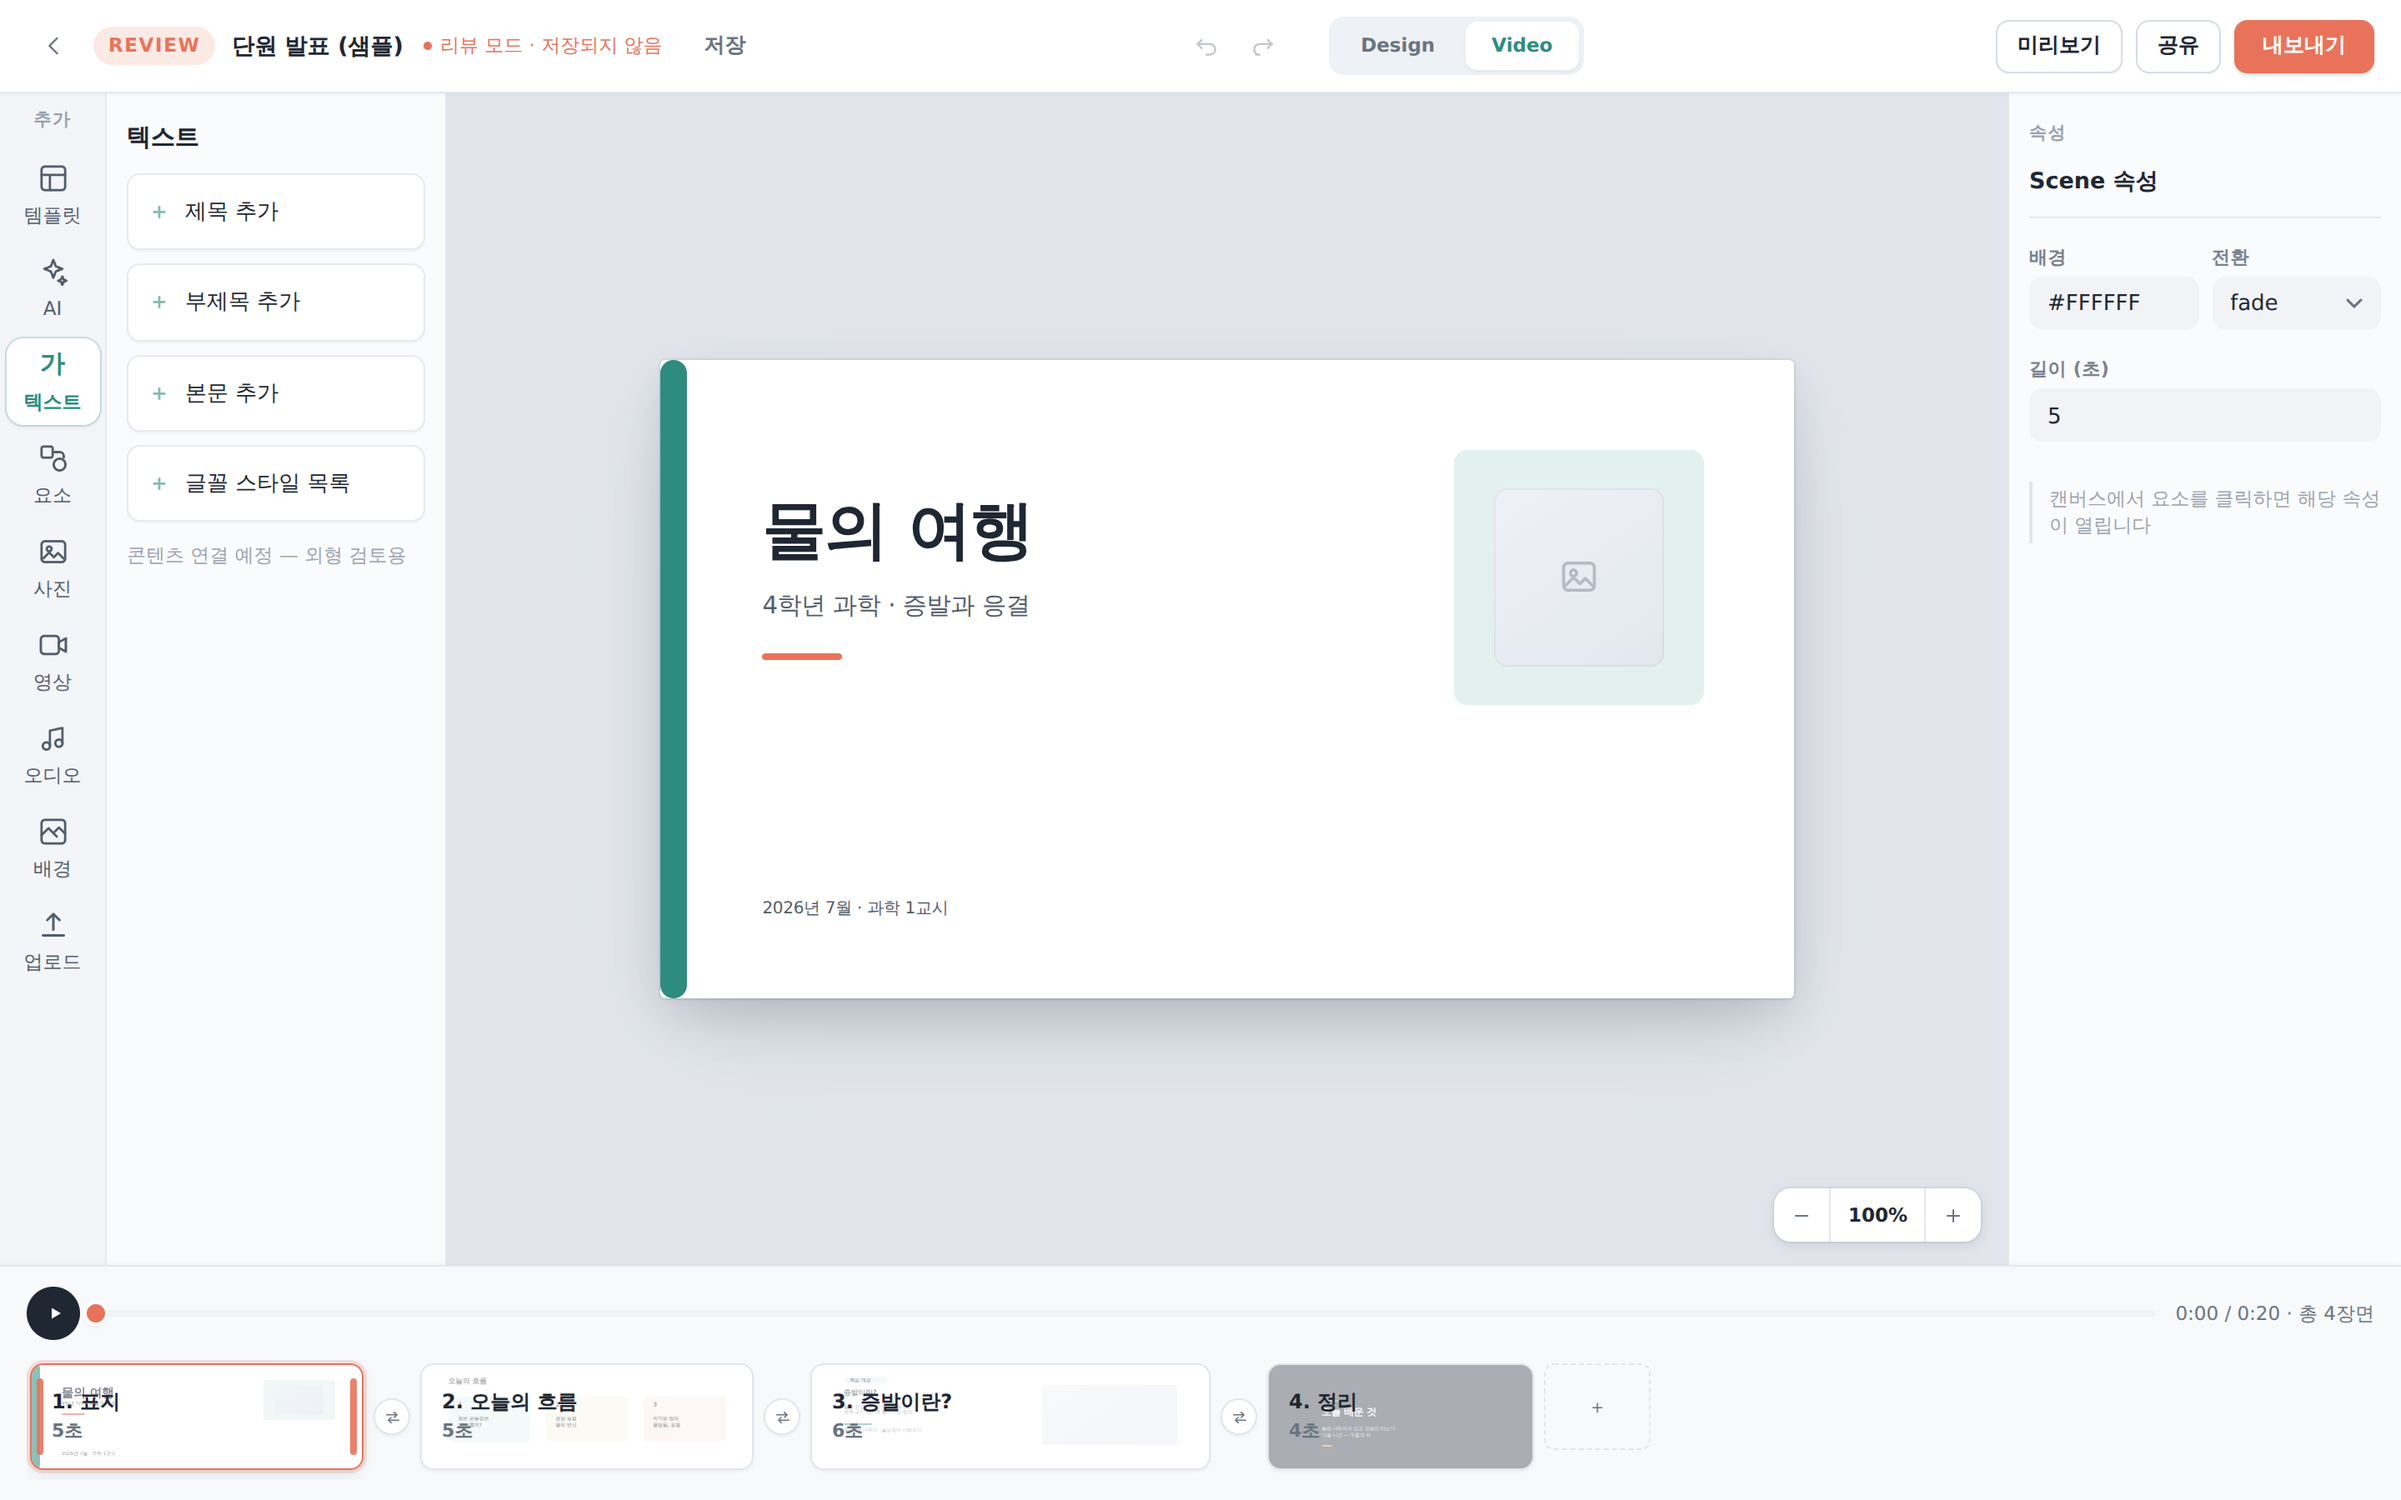
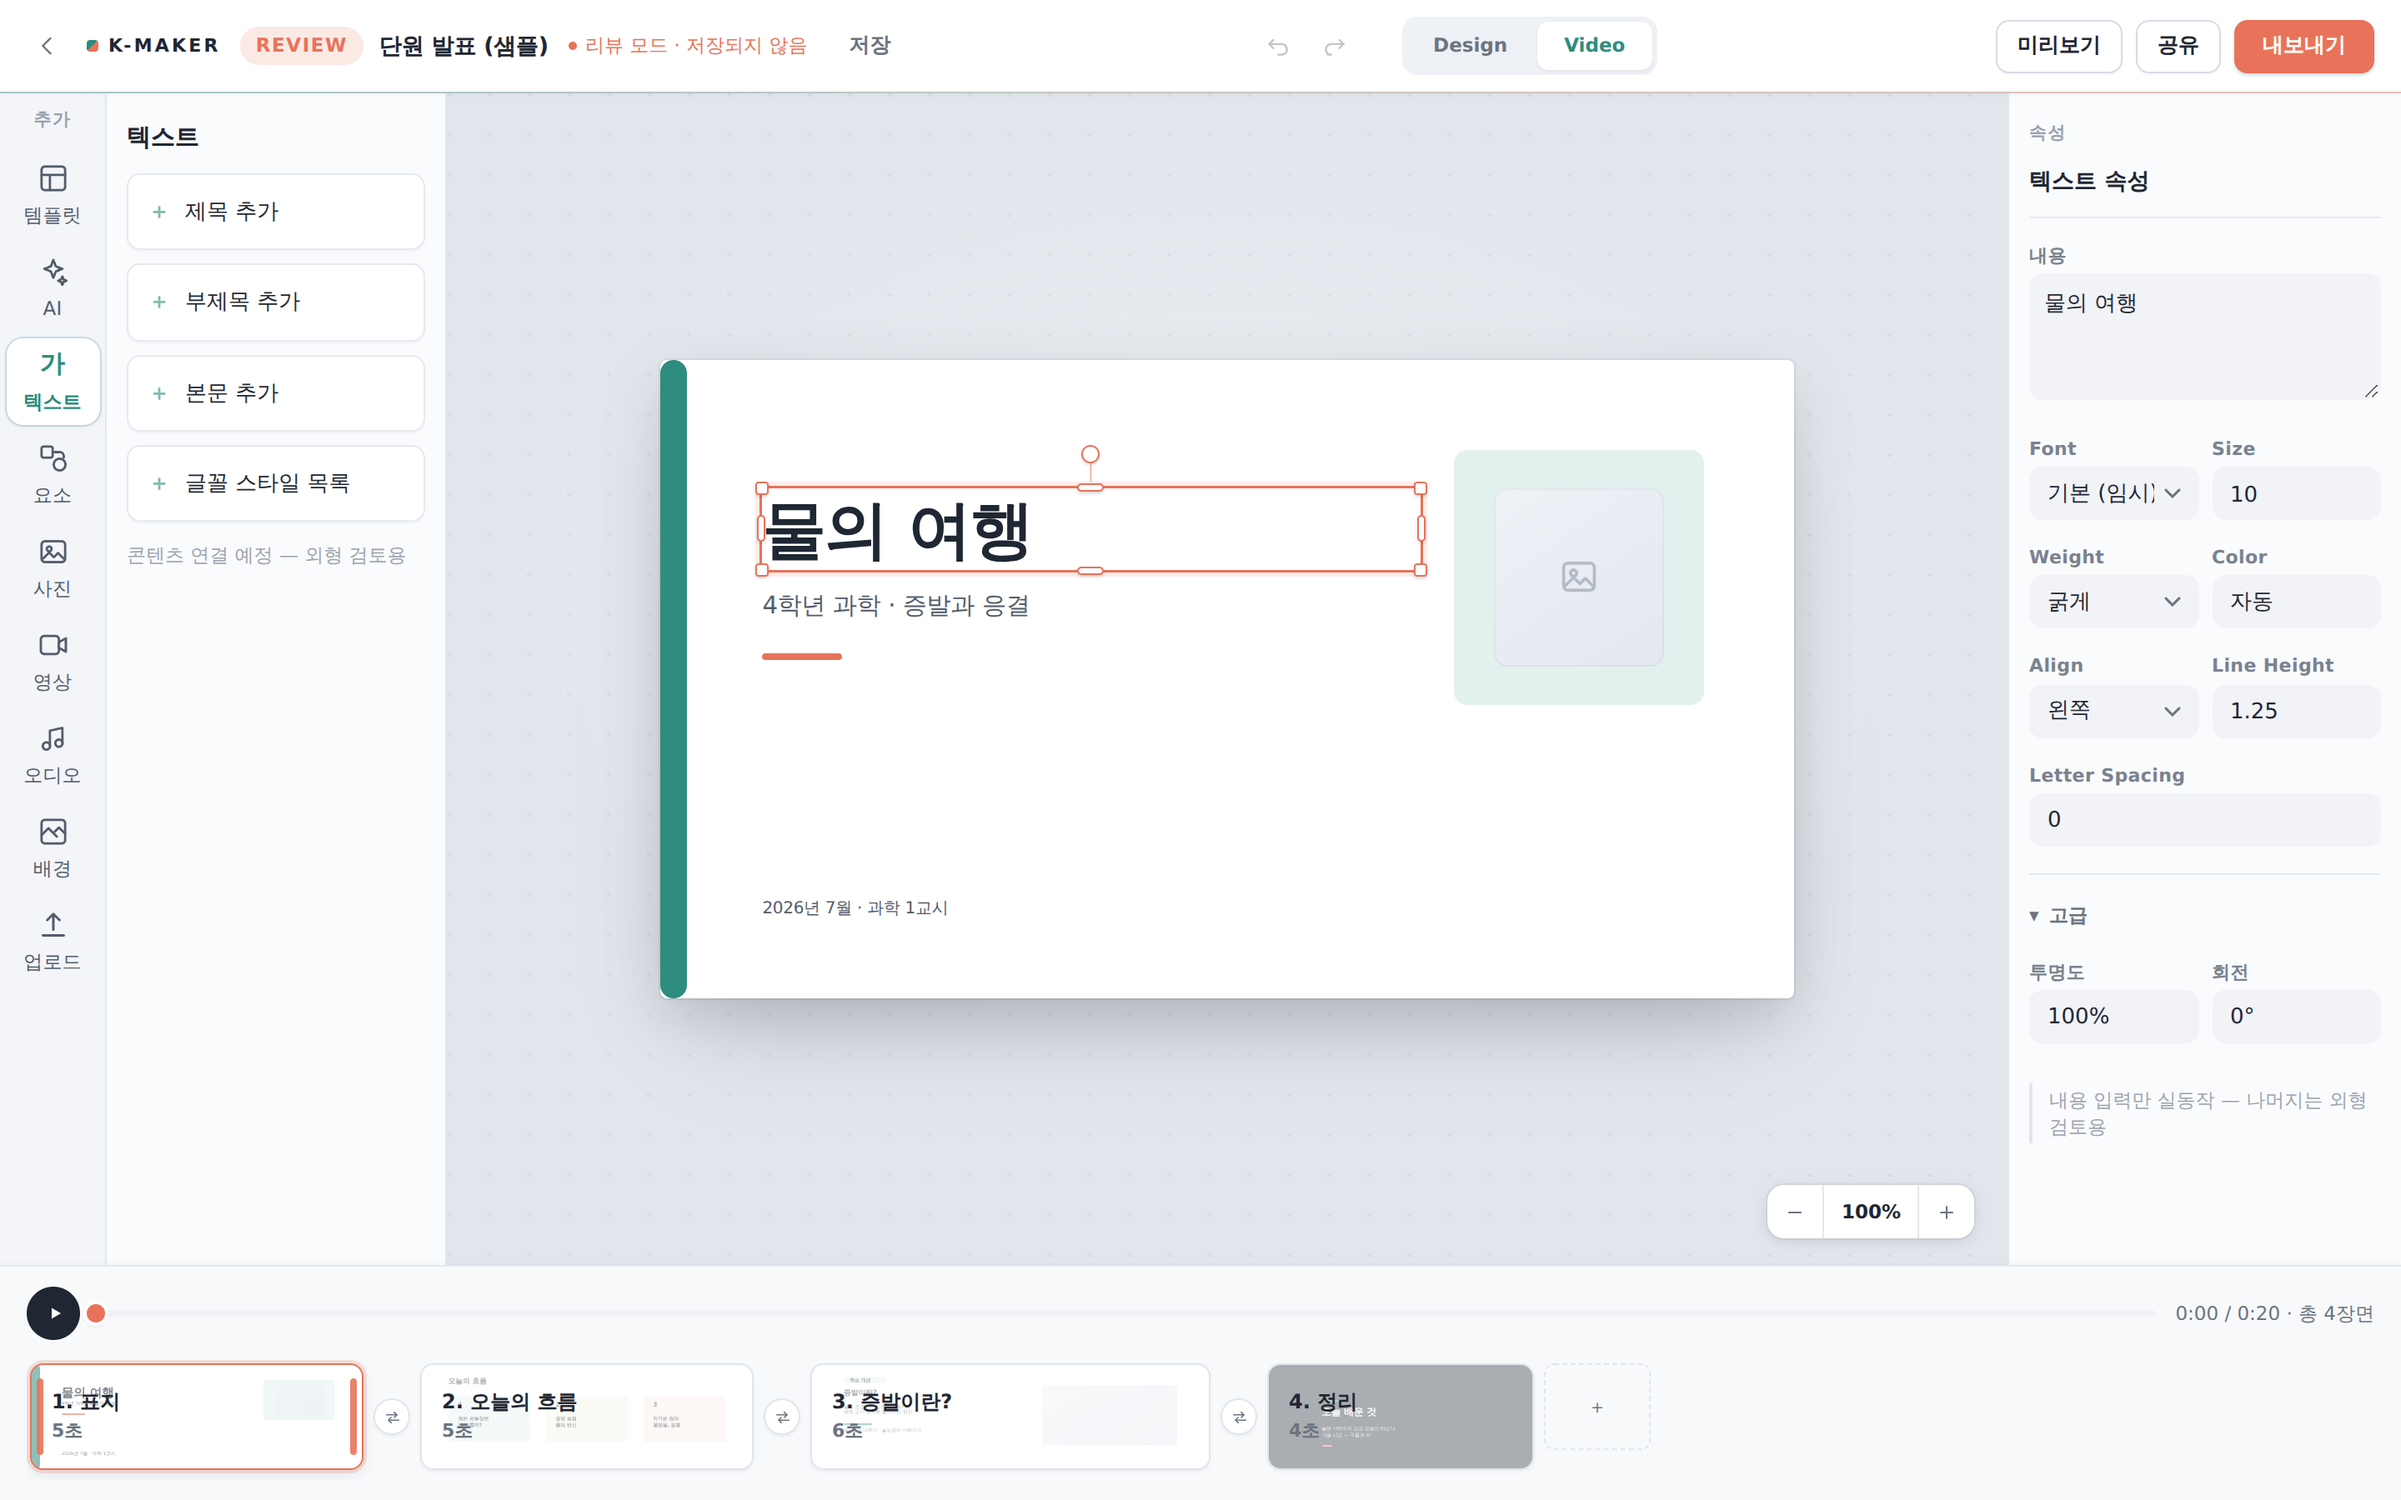
Product Experience Round 06 — Brand Experience (기능·레이아웃 무변). ① Identity: 리뷰(쇼케이스) 한정 K-MAKER 워드마크(캡션 11px·트래킹 1.6·teal/coral 듀오 도트 — 로고 확대 아님) + 툴바 하단 1px teal→coral 브랜드 헤어라인(opacity .34), 파일명 트래킹 -.01em ② Showcase: 리뷰 크롬이 곧 브랜드 — 배지·워드마크·헤어라인 3요소 조합 ③ Canvas Experience: 창작 공간화 — 도트 그리드(24px·5% 잉크)+

diff --git a/maker-playground/index.html b/maker-playground/index.html
@@ -6,9 +6,9 @@
 <meta name="robots" content="noindex">
 <title>K-MAKER Design Playground</title>
 <link rel="stylesheet" href="https://cdn.jsdelivr.net/gh/orioncactus/pretendard@v1.3.9/dist/web/static/pretendard.min.css">
-<link rel="stylesheet" href="tokens.css?v=20260718d">
-<link rel="stylesheet" href="playground.css?v=20260718d">
-<link rel="stylesheet" href="components/button.css?v=20260718d">
+<link rel="stylesheet" href="tokens.css?v=20260718e">
+<link rel="stylesheet" href="playground.css?v=20260718e">
+<link rel="stylesheet" href="components/button.css?v=20260718e">
 </head>
 <body>
 <div class="pg-shell">
@@ -22,25 +22,25 @@
     <div class="pg-body" id="pgBody"></div>
   </main>
 </div>
-<script src="data/sample.js?v=20260718d"></script>
-<script src="data/templates.js?v=20260718d"></script>
-<script src="data/assets.js?v=20260718d"></script>
-<script src="data/projects.js?v=20260718d"></script>
-<script src="data/animations.js?v=20260718d"></script>
-<script src="components.js?v=20260718d"></script>
-<script src="screens/misc.js?v=20260718d"></script>
-<script src="screens/foundations.js?v=20260718d"></script>
-<script src="screens/components.js?v=20260718d"></script>
-<script src="screens/home.js?v=20260718d"></script>
-<script src="screens/create.js?v=20260718d"></script>
-<script src="screens/browser.js?v=20260718d"></script>
-<script src="screens/editor.js?v=20260718d"></script>
-<script src="screens/assets.js?v=20260718d"></script>
-<script src="screens/ai.js?v=20260718d"></script>
-<script src="screens/projects.js?v=20260718d"></script>
-<script src="screens/workspace.js?v=20260718d"></script>
-<script src="screens/builder.js?v=20260718d"></script>
-<script src="screens/animation.js?v=20260718d"></script>
-<script src="app.js?v=20260718d"></script>
+<script src="data/sample.js?v=20260718e"></script>
+<script src="data/templates.js?v=20260718e"></script>
+<script src="data/assets.js?v=20260718e"></script>
+<script src="data/projects.js?v=20260718e"></script>
+<script src="data/animations.js?v=20260718e"></script>
+<script src="components.js?v=20260718e"></script>
+<script src="screens/misc.js?v=20260718e"></script>
+<script src="screens/foundations.js?v=20260718e"></script>
+<script src="screens/components.js?v=20260718e"></script>
+<script src="screens/home.js?v=20260718e"></script>
+<script src="screens/create.js?v=20260718e"></script>
+<script src="screens/browser.js?v=20260718e"></script>
+<script src="screens/editor.js?v=20260718e"></script>
+<script src="screens/assets.js?v=20260718e"></script>
+<script src="screens/ai.js?v=20260718e"></script>
+<script src="screens/projects.js?v=20260718e"></script>
+<script src="screens/workspace.js?v=20260718e"></script>
+<script src="screens/builder.js?v=20260718e"></script>
+<script src="screens/animation.js?v=20260718e"></script>
+<script src="app.js?v=20260718e"></script>
 </body>
 </html>

diff --git a/maker-playground/playground.css b/maker-playground/playground.css
@@ -1538,3 +1538,43 @@ body.pg-chromeless .pg-shell { grid-template-columns: 1fr; }
 .ed-zoom { transition: box-shadow var(--ed-tr) var(--mk-mo-ease); }
 .ed-props .mk-input, .ed-detail .ph-item, .ed-adv summary { transition-duration: var(--ed-tr); }
 
+
+/* ============================================================
+   Product Experience — Round 06  (Brand Experience)
+   기능·레이아웃 무변 — 타이포·모션·서피스·하이라이트로 브랜드.
+   ============================================================ */
+/* ---- 4. Interaction — 빠름이 아니라 부드러움 (180ms·소프트 커브 전면) ---- */
+.ed { --ed-tr: 180ms; --mk-mo-ease: cubic-bezier(.22, .68, .3, 1); --mk-mo-fast: 150ms; }
+
+/* ---- 3. Canvas Experience — 창작 공간 (라이팅 + 도트 그리드) ---- */
+.ed-canvaswrap { background:
+    radial-gradient(circle at 1px 1px, rgba(31, 39, 51, .05) 1px, transparent 1.6px) 0 0 / 24px 24px,
+    radial-gradient(ellipse 64% 54% at 50% 42%, #ECEFF3 0%, var(--ed-bg-workspace) 74%); }
+.ed-canvas { border-radius: 4px;
+  box-shadow: 0 0 0 1px rgba(20, 28, 40, .05),
+              0 1px 2px rgba(20, 28, 40, .06),
+              0 12px 32px rgba(20, 28, 40, .13),
+              0 32px 64px -20px rgba(20, 28, 40, .18); }
+
+/* ---- 1. Identity — 워드마크(캡션 크기)·브랜드 헤어라인 (리뷰=쇼케이스 한정) ---- */
+.ed-brandmark { font: 800 11px/1 var(--mk-font); letter-spacing: 1.6px; color: var(--mk-text-primary);
+  display: inline-flex; align-items: center; gap: 6px; flex: none; padding-right: 2px; }
+.ed-brandmark::before { content: ''; width: 7px; height: 7px; border-radius: 2px;
+  background: linear-gradient(135deg, var(--mk-teal) 0 50%, var(--mk-coral) 50% 100%); }
+.ed--review .ed-toolbar::after { content: ''; position: absolute; left: 0; right: 0; bottom: -1px; height: 1px;
+  background: linear-gradient(90deg, var(--mk-teal), var(--mk-coral)); opacity: .34; }
+.ed-toolbar .fname { letter-spacing: -.01em; }
+
+/* ---- 5. Micro Details — 1px 감사 ---- */
+.ed-toolbar { padding: 0 var(--mk-sp-4) 0 var(--mk-sp-3); }
+.ed-review-badge { margin-left: 2px; }
+.ed-strip-head { padding: 0 4px; margin-bottom: 8px; }
+.ed-sc.on { box-shadow: 0 1px 4px rgba(20, 28, 40, .08), 0 0 0 1px var(--ed-hairline); }
+.ed-sc .frame { border-color: #E1E5EC; }
+.ed-sceneops { gap: 6px; }
+.ed-zoom { right: 20px; bottom: 16px; }
+.ed-props .fld label { line-height: 1.2; }
+.ed-adv summary::before { width: 12px; display: inline-block; }
+.ed-el.img-ph:not(.has-fill) { box-shadow: inset 0 0 0 1px rgba(20, 28, 40, .045); }
+.ed-mainmenu button .nm, .ed-mainmenu button { letter-spacing: .1px; }
+.ed-tl-block { border-color: #E1E5EC; }

diff --git a/maker-playground/screens/editor.js b/maker-playground/screens/editor.js
@@ -277,6 +277,10 @@ window.MK_SCREENS.review = (() => {
         b.className = 'ed-review-badge';
         b.textContent = 'REVIEW';
         tb.insertBefore(b, tb.querySelector('.ed-tb-file'));
+        const wm = document.createElement('span');
+        wm.className = 'ed-brandmark';
+        wm.textContent = 'K-MAKER';
+        tb.insertBefore(wm, b);
       }
       /* 나가기 → 리뷰 홈이 아닌 Home으로 (검수 동선 단순화) */
       const back = root.querySelector('[data-ed="back"]');
